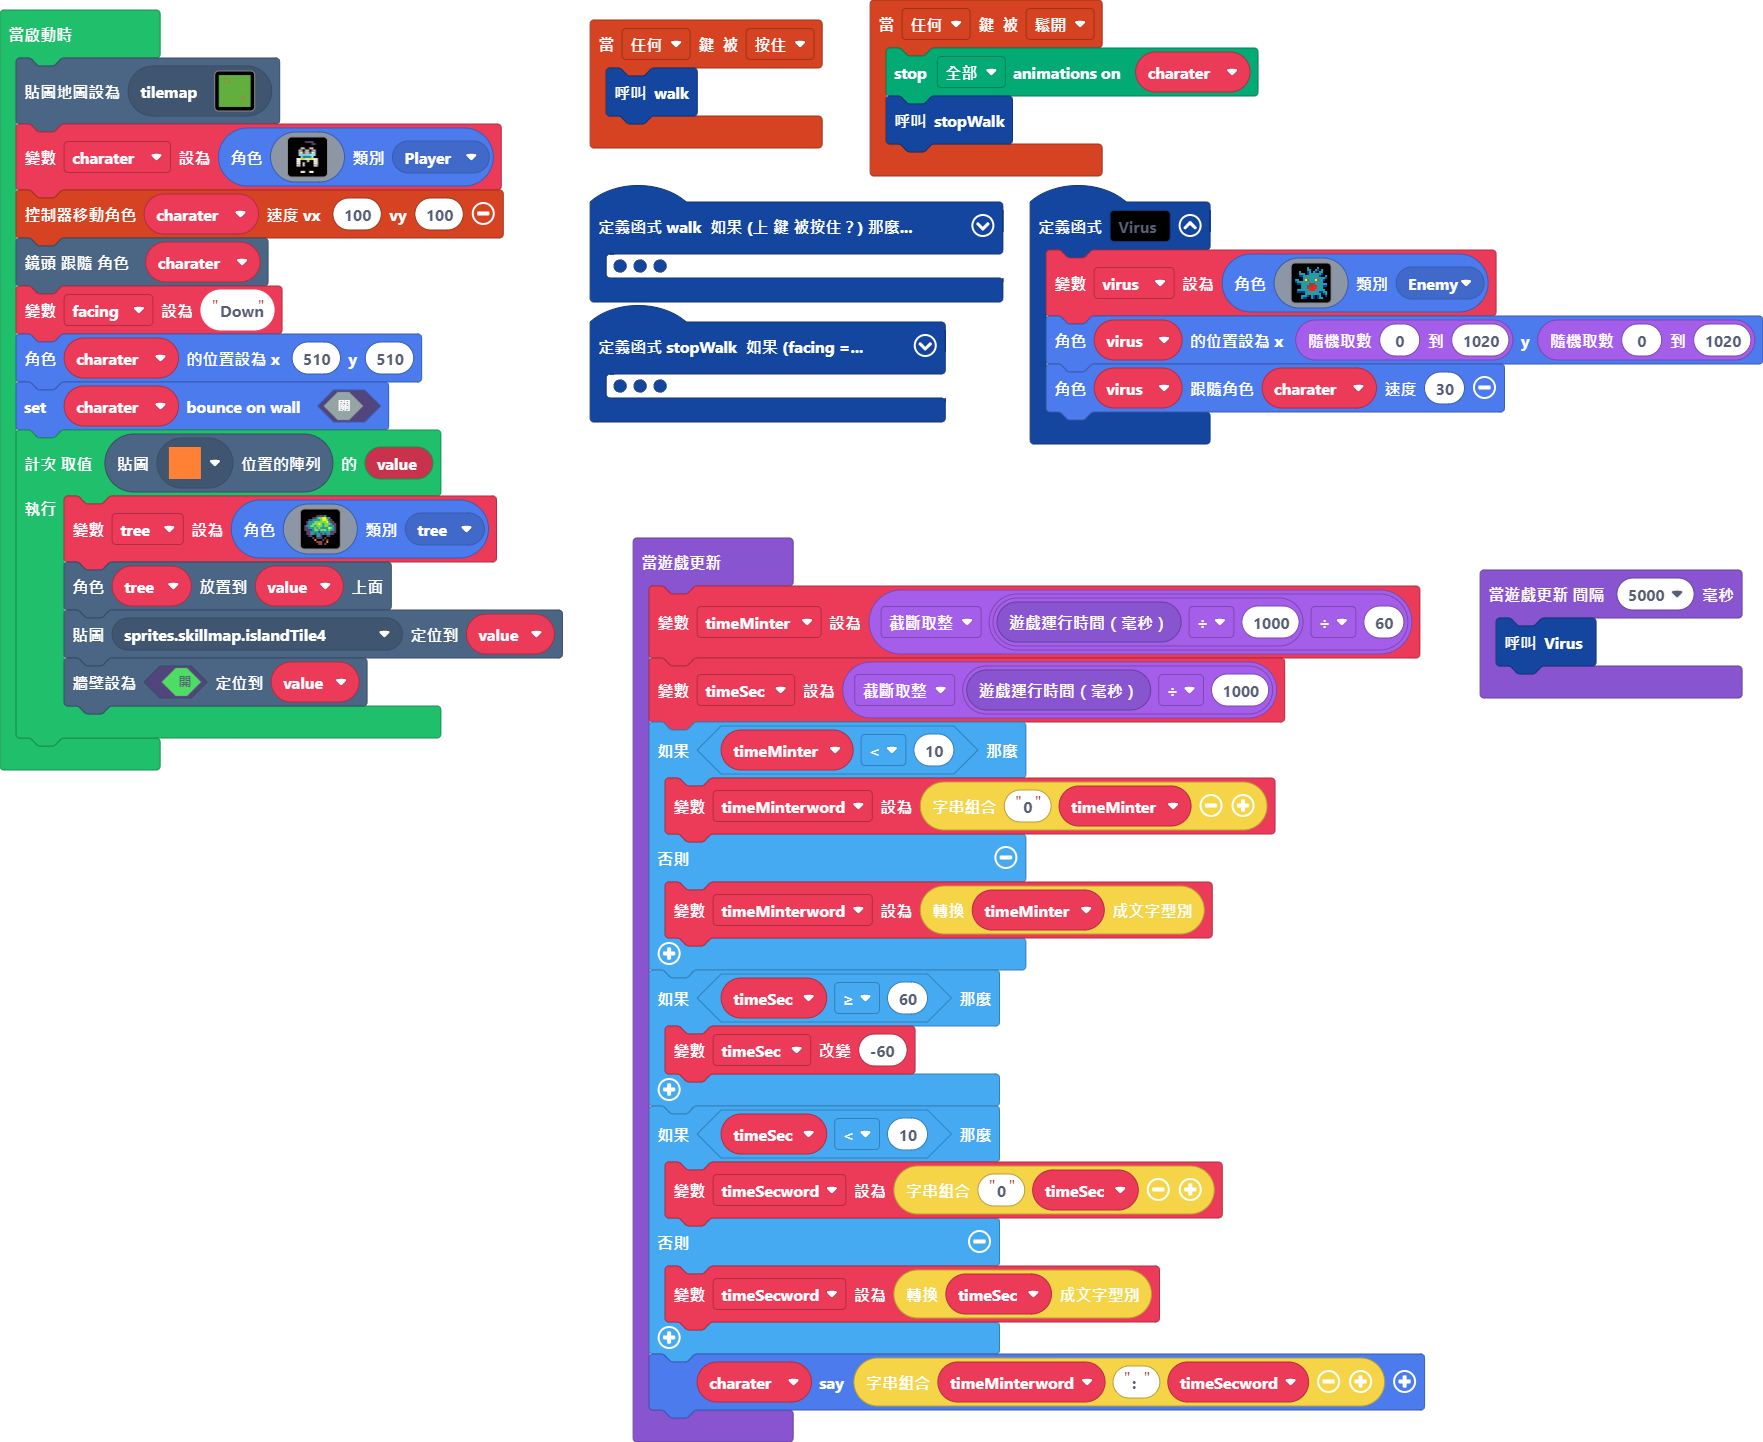
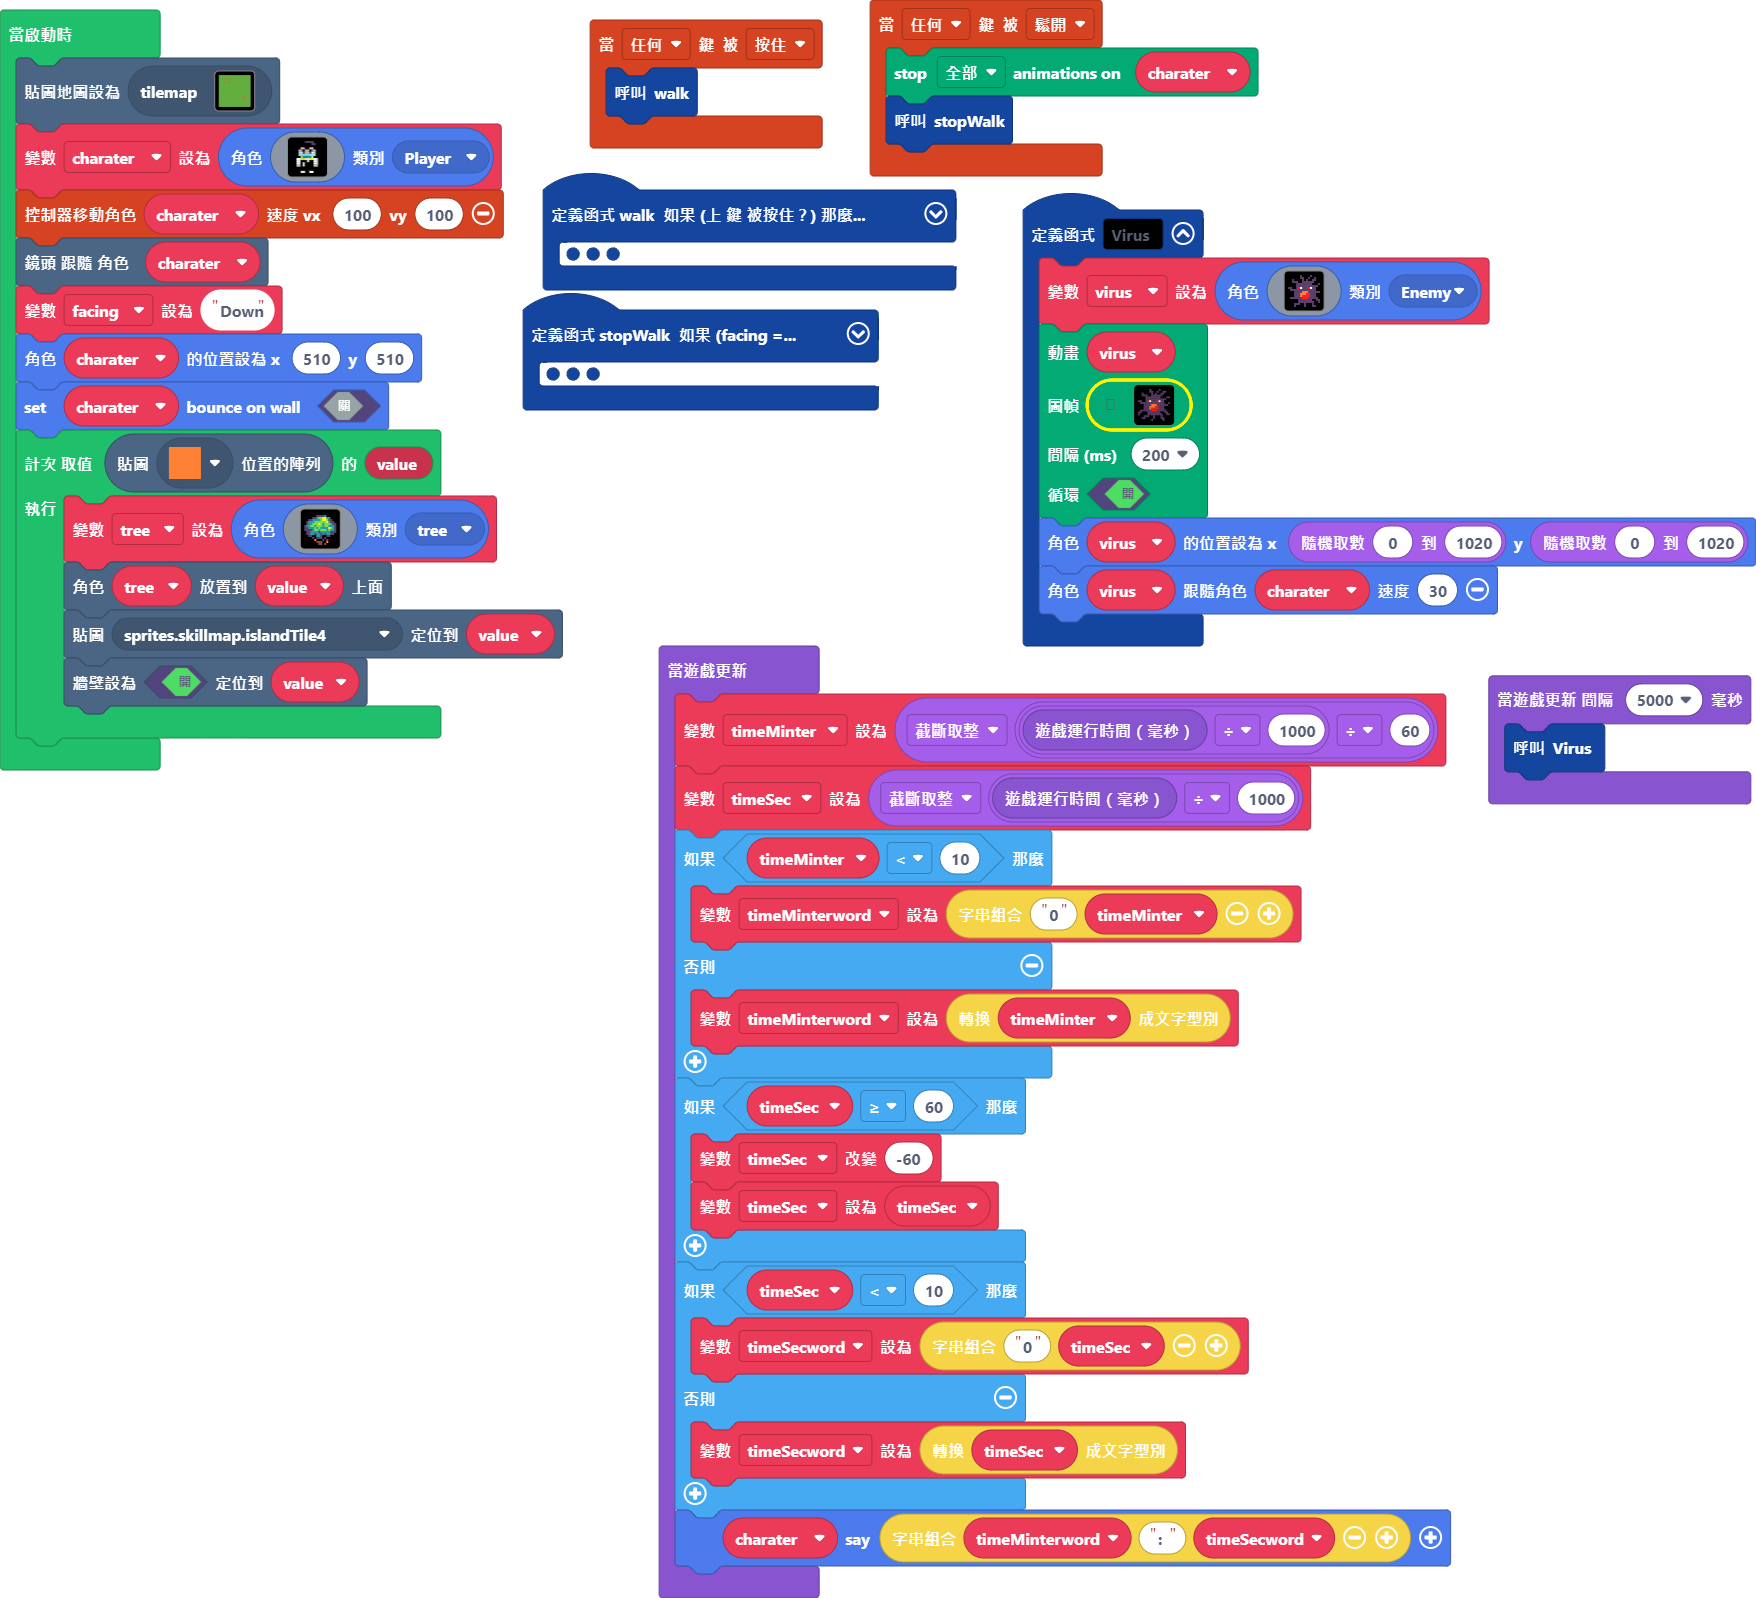
更新 main.blocks, main.ts, images.g.jres, images.g.ts

diff --git a/images.g.ts b/images.g.ts
@@ -75,6 +75,25 @@ d d d 9 9 9 9 9 .
 . . . . f f . . . 
 . . . . 1 1 . . . 
 `;
+            case "v4Kz_jq:j|6jqgoDTt04":
+            case "virus":return img`
+. . . . . . c . . . . c . . . . 
+. . . . . . c c . . c f . c . . 
+. . c . . . f c . c f . c c . . 
+. . c c c . f c c c c c c f . . 
+. . f f c c c c c c c c f . . c 
+. . . . c c c c c c c c c c c f 
+c c . . c 2 1 c c c 2 1 c c f . 
+f c c c c c c c c c c c c c . . 
+. f f c c c c 4 4 4 c c c c c c 
+. . . c c c 4 4 4 2 2 c c c f f 
+. . . c c c 4 2 2 2 2 c c c . . 
+. c c c c c c 2 2 2 c c c c c . 
+. f f f f c c c c c c c f f c c 
+. . . . . c c c c c c c c . f c 
+. . . c c c f . c f . f c . . f 
+. . . c f f . . c f . f c c . . 
+`;
         }
         return null;
     })
@@ -344,6 +363,62 @@ d d d 9 9 9 9 9 .
 . . . f f f f . . 
 . . . . f f . . . 
 . . . . 1 1 . . . 
+`];
+            case "我的動畫":
+            case "anim5":return [img`
+. . . . . . c . . . . c . . . . . 
+. . . . . . c c . . c f . c c . . 
+. . c . . . f c . c f . c c f . . 
+. . c c c . f c c c c c c f . . . 
+. . f f c c c c c c c c f . . c c 
+. . . . c c c c c c c c c c c f f 
+c c . . c 2 1 c c c 2 1 c c f . . 
+f c c c c c c c c c c c c c . . c 
+. f f c c c c 4 4 4 c c c c c c f 
+. . . c c c 4 4 4 2 2 c c c f f . 
+. . . c c c 4 2 2 2 2 c c c . . . 
+. c c c c c c 2 2 2 c c c c c . . 
+c c f f f c c c c c c c f f c c . 
+c f . . . c c c c c c c c . f c c 
+. . . c c c f . c f . f c . . f f 
+. . c c f f . . c f . f c c . . . 
+. . f f . . . c f . . . f c . . . 
+`, img`
+. . . . . . . . . c f . . . c . . 
+. . . . . c c . . c f . c c f . . 
+. . . . . f c c . c f . c f . . . 
+. . c c c . f c c c c c c f . . . 
+. c f f c c c c c c c c f . . . . 
+. f . . c c c c c c c c c c c c . 
+. . . . c 2 1 c c c 2 1 c c f f . 
+. . c c c c c c c c c c c c . . . 
+. c f c c c c 4 4 4 c c c c c . . 
+c f . c c c 4 4 4 2 2 c c c f c . 
+f . . c c c 4 2 2 2 2 c c c . f . 
+. . c c c c c 2 2 2 c c c c . . . 
+. c f f f c c c c c c c f f c c . 
+c c f . . c c c c c c c c . f f . 
+f f . . . c f . c f . f c c . . . 
+. . . . c f . c f f . . f f c . . 
+. . . . . . . . . . . . . . . . . 
+`, img`
+. . . . . . c . c c f . . . . . . 
+. . c . . . c c f c f . . . . . . 
+. . f c . . f c . c f . . c c c . 
+. . f c c . f c c c c c c f f f . 
+. . . f c c c c c c c c f . . c . 
+. . . . c c c c c c c c c c c f . 
+. . . . c 2 1 c c c 2 1 c c f . . 
+c c c c c c c c c c c c c c . . . 
+f f f c c c c 4 4 4 c c c c c c . 
+. . . c c c 4 4 4 2 2 c c c f f . 
+c . . c c c 4 2 2 2 2 c c c . . . 
+f c c c c c c 2 2 2 c c c c c c . 
+. f f f f c c c c c c c f f f f . 
+. . . . . c c c c c c c c . . f . 
+. . . . . c f . c f . f c . . . . 
+. . . . c f . . c f . f c c . . . 
+. . . . . . . . . . . . . . . . . 
 `];
         }
         return null;

diff --git a/main.ts b/main.ts
@@ -49,24 +49,13 @@ function stopWalk () {
     }
 }
 function Virus () {
-    virus = sprites.create(img`
-        . . . . . . 6 . . . . 6 . . . . 
-        . . . . . . 6 6 . . 6 8 . 6 . . 
-        . . 6 . . . 8 6 . 6 8 . 6 6 . . 
-        . . 6 6 6 . 8 6 6 6 6 6 6 8 . . 
-        . . 8 8 6 6 6 6 6 6 6 6 8 . . 6 
-        . . . . 6 6 6 6 6 6 6 6 6 6 6 8 
-        6 6 . . 6 5 2 6 6 6 5 2 6 6 8 . 
-        8 6 6 6 6 6 6 6 6 6 6 6 6 6 . . 
-        . 8 8 6 6 6 6 e e e 6 6 6 6 6 6 
-        . . . 6 6 6 e e e 2 2 6 6 6 8 8 
-        . . . 6 6 6 e 2 2 2 2 6 6 6 . . 
-        . 6 6 6 6 6 6 2 2 2 6 6 6 6 6 . 
-        . 8 8 8 8 6 6 6 6 6 6 6 8 8 6 6 
-        . . . . . 6 6 6 6 6 6 6 6 . 8 6 
-        . . . 6 6 6 8 . 6 8 . 8 6 . . 8 
-        . . . 6 8 8 . . 6 8 . 8 6 6 . . 
-        `, SpriteKind.Enemy)
+    virus = sprites.create(assets.image`virus`, SpriteKind.Enemy)
+    animation.runImageAnimation(
+    virus,
+    assets.animation`我的動畫`,
+    200,
+    true
+    )
     virus.setPosition(randint(0, 1020), randint(0, 1020))
     virus.follow(charater, 30)
 }
@@ -125,6 +114,7 @@ game.onUpdate(function () {
     }
     if (timeSec >= 60) {
         timeSec += -60
+        timeSec = timeSec
     }
     if (timeSec < 10) {
         timeSecword = "0" + timeSec
